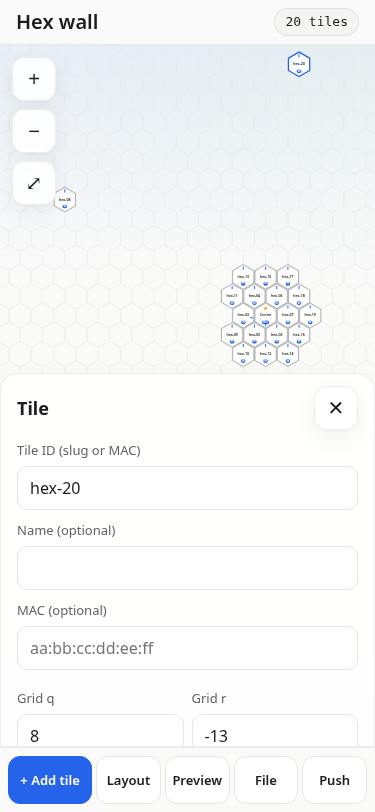
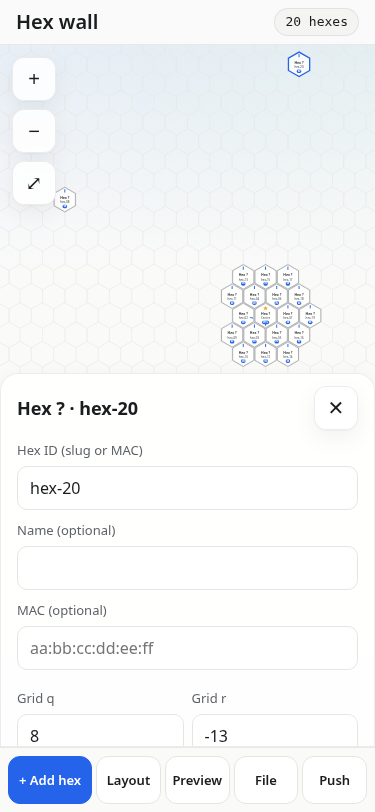
web: Hex NN naming (hex_NN entities/services from tiles.csv rows), 'Hex' UI wording
- Hexes labelled 'Hex NN' (tiles.csv row) with id secondary; panel title 'Hex NN · id'.
- Service prefix from master's tiles.csv row (hex_01); set_hex_layout(hex_num,...), set_layout_bulk, set_wall_fx
  (+ required axis arg per Hardware 9b55813); sensor.hex_NN_sync_source, binary_sensor.hex_NN_sync_leader.
- All user-visible 'tile' wording -> 'hex'; layout.json keys and code identifiers unchanged.
- test.js: 186 checks at 375 and 1280.

diff --git a/web/app.js b/web/app.js
@@ -66,11 +66,11 @@
       var a = Math.PI / 180 * (deg + (st.hex.orientation === 'flat' ? 30 : 0) - 90);
       h += '<g class="hx' + (i === sel ? ' sel' : '') + (bad[i] ? ' bad' : '') + '" data-i="' + i + '"><path d="' + corners(p[0], p[1], R - 2) + '"' + fill + '/>' +
         '<line class="rotmark" x1="' + (p[0] + Math.cos(a) * R * 0.55).toFixed(1) + '" y1="' + (p[1] + Math.sin(a) * R * 0.55).toFixed(1) + '" x2="' + (p[0] + Math.cos(a) * R * 0.8).toFixed(1) + '" y2="' + (p[1] + Math.sin(a) * R * 0.8).toFixed(1) + '"/>' +
-        dots + (D ? '' : '<text x="' + p[0] + '" y="' + p[1] + '">' + esc(lab.length > 9 ? lab.slice(0, 8) + '…' : lab) + '</text>') +
+        dots + (D ? '' : '<text x="' + p[0] + '" y="' + (p[1] - 5) + '">' + esc(hexLabel(t)) + '</text><text class="sub" x="' + p[0] + '" y="' + (p[1] + 9) + '">' + esc(lab.length > 10 ? lab.slice(0, 9) + '…' : lab) + '</text>') +
         syncBadge(i, p) + (i === mi ? '<text class="star" x="' + p[0] + '" y="' + (p[1] - R * 0.5) + '">★</text>' : '') + '</g>';
     }
     gT.innerHTML = h;
-    $('count').textContent = st.tiles.length + (st.tiles.length === 1 ? ' tile' : ' tiles');
+    $('count').textContent = st.tiles.length + (st.tiles.length === 1 ? ' hex' : ' hexes');
     $('errs').hidden = !errs.length; $('errs').textContent = errs.length + ' issue' + (errs.length > 1 ? 's' : '');
   }
   /* expected sync source per DESIGN.md (live value only from sensor.hex_<id>_sync_source: espnow / jumper / jumper-lost).
@@ -85,18 +85,18 @@
   /* jumper wiring per DESIGN.md "Sync mode": one shared line + GND, 330 R series at each tile, one 4.7 k pull-up to 3.3 V */
   function wiring(pinName, n) {
     var cols = [70, 165, 260], h = '<svg viewBox="0 0 340 250" role="img" aria-label="Jumper wire sync wiring">';
-    h += '<text x="18" y="16">3.3V (any one tile)</text><line class="ln" x1="40" y1="22" x2="40" y2="36"/>';
+    h += '<text x="18" y="16">3.3V (any one hex)</text><line class="ln" x1="40" y1="22" x2="40" y2="36"/>';
     h += '<rect class="pu" x="30" y="36" width="20" height="34" rx="3"/><text x="56" y="52">4.7 kΩ pull-up</text><text class="mu" x="56" y="65">one only (optional*)</text>';
     h += '<line class="ln" x1="40" y1="70" x2="40" y2="90"/><line class="ln" x1="14" y1="90" x2="330" y2="90"/><text x="6" y="106">SYNC</text>';
     for (var k = 0; k < 3; k++) { var x = cols[k];
       h += '<circle cx="' + x + '" cy="90" r="3" fill="currentColor"/><line class="ln" x1="' + x + '" y1="90" x2="' + x + '" y2="104"/>';
       h += '<rect class="res" x="' + (x - 10) + '" y="104" width="20" height="30" rx="3"/><text x="' + (x + 14) + '" y="123">330 Ω</text>';
       h += '<line class="ln" x1="' + x + '" y1="134" x2="' + x + '" y2="150"/><rect class="tile" x="' + (x - 34) + '" y="150" width="68" height="44" rx="8"/>';
-      h += '<text x="' + (x - 26) + '" y="168">' + esc(pinName) + '</text><text class="mu" x="' + (x - 26) + '" y="184">tile ' + (k + 1) + '</text>';
+      h += '<text x="' + (x - 26) + '" y="168">' + esc(pinName) + '</text><text class="mu" x="' + (x - 26) + '" y="184">Hex ' + pad2(k + 1) + '</text>';
       h += '<line class="gnd" x1="' + x + '" y1="194" x2="' + x + '" y2="214"/><text class="mu" x="' + (x + 4) + '" y="208">GND</text>'; }
     h += '<text x="300" y="175">… ×' + Math.max(n, 1) + '</text><line class="gnd" x1="14" y1="214" x2="330" y2="214"/><text x="14" y="232">GND bus (LED power GND is fine)</text></svg>';
-    h += '<ul><li>Each tile: ' + esc(pinName) + ' → 330 Ω series resistor → shared SYNC line. Plus a shared GND.</li><li>One 4.7 kΩ pull-up to 3.3 V on one tile. *DESIGN.md: optional, internal ~45 kΩ pull-ups also work for short lines [EST].</li>' +
-      '<li>Twisted pair (sync + GND) or ribbon, kept short and away from the 5 V branch runs. Open-drain: tiles only pull low.</li><li>Then set <span class="mono">select.' + nodeName() + '_sync_mode</span> to "Jumper wire". sync_pin is a compile-time substitution (regenerate and flash to change it).</li></ul>';
+    h += '<ul><li>Each hex: ' + esc(pinName) + ' → 330 Ω series resistor → shared SYNC line. Plus a shared GND.</li><li>One 4.7 kΩ pull-up to 3.3 V on one hex. *DESIGN.md: optional, internal ~45 kΩ pull-ups also work for short lines [EST].</li>' +
+      '<li>Twisted pair (sync + GND) or ribbon, kept short and away from the 5 V branch runs. Open-drain: hexes only pull low.</li><li>Then set <span class="mono">select.' + nodeName() + '_sync_mode</span> to "Jumper wire". sync_pin is a compile-time substitution (regenerate and flash to change it).</li></ul>';
     return h;
   }
   function refresh() { render(); save(); syncPanels(); }
@@ -106,7 +106,7 @@
   function show(p) {
     var wasOpen = !$('sheet').hidden; cur = p; $('sheet').hidden = !p;
     for (var k in panes) $(panes[k]).className = 'pane' + (k === p ? ' show' : '');
-    $('shTitle').textContent = { tile: 'Tile', layout: 'Layout & LEDs', fx: 'Effect preview', file: 'Import / export', hw: 'Hardware push' }[p] || '';
+    $('shTitle').textContent = { tile: 'Hex panel', layout: 'Layout & LEDs', fx: 'Effect preview', file: 'Import / export', hw: 'Hardware push' }[p] || '';
     $('tabLayout').className = 'btn' + (p === 'layout' ? ' on' : ''); $('tabFx').className = 'btn' + (p === 'fx' ? ' on' : ''); $('tabFile').className = 'btn' + (p === 'file' ? ' on' : ''); $('tabHw').className = 'btn' + (p === 'hw' ? ' on' : '');
     syncPanels(); if (wasOpen !== !!p) { clearTimeout(fitTimer); fitTimer = setTimeout(function () { fitTimer = 0; fit(); }, 0); } // refit only when the panel opens/closes
   }
@@ -119,7 +119,8 @@
       setv($('tId'), t.id); setv($('tName'), t.name); setv($('tMac'), t.mac); setv($('tQ'), t.q); setv($('tR'), t.r); setv($('tDeg'), LF.rotDeg(t)); setv($('tOrd'), t.order == null || t.order === '' ? '' : t.order); $('tOrd').placeholder = 'default (' + sel + ')'; $('tOrdDef').disabled = t.order == null || t.order === ''; setv($('tLed'), t.ledCount); $('tLed').placeholder = 'default (' + st.led.count + ')'; $('tLedDef').disabled = t.ledCount === '';
       for (var i = 0; i < errs.length; i++) if (errs[i].tile === sel) e.push(errs[i].msg);
       $('tIdErr').textContent = e.join(' · ');
-      var ss = syncSrc(sel); $('tSync').innerHTML = '<span class="badge" style="background:' + ss.color + '">' + ss.src + '</span>expected · ' + esc(ss.why) + '. Live value: <span class="mono">sensor.hex_' + esc(nid(t.id)) + '_sync_source</span>';
+      var ss = syncSrc(sel); $('tSync').innerHTML = '<span class="badge" style="background:' + ss.color + '">' + ss.src + '</span>expected · ' + esc(ss.why) + '. Live: <span class="mono">' + (hexNum(t) ? 'sensor.' + ent(t) + '_sync_source, binary_sensor.' + ent(t) + '_sync_leader' : '(not in tiles.csv, no entities)') + '</span>';
+      $('shTitle').textContent = hexLabel(t) + (t.id ? ' · ' + t.id : '');
       $('tPos').textContent = 'q ' + t.q + ', r ' + t.r + (t.id && t.id === st.master ? ' · master' : '');
       $('tMaster').textContent = t.id && t.id === st.master ? 'Is master ★' : 'Make master';
     } else if (cur === 'tile') show(null);
@@ -130,8 +131,8 @@
       setv($('lSyncPin'), sy.pin); $('wireBox').hidden = !jm; if (jm) $('wireBox').innerHTML = wiring(LF.normPin(sy.pin || 'GPIO12'), st.tiles.length);
       setv($('lName'), st.name); $('lOri').value = st.hex.orientation; setv($('lSize'), st.hex.sizeMm); setv($('lPin'), st.led.pin); setv($('lCount'), st.led.count);
       opts($('lType'), LF.TYPES, st.led.type); opts($('lOrder'), LF.ORDERS, st.led.order);
-      var m = [{ v: '', t: '— none —' }]; for (var j = 0; j < st.tiles.length; j++) if (st.tiles[j].id) m.push(st.tiles[j].id); opts($('lMaster'), m, st.master || '');
-      var h = ''; for (var k = 0; k < errs.length; k++) h += '<li>' + (errs[k].tile != null ? 'Tile at ' + st.tiles[errs[k].tile].q + ',' + st.tiles[errs[k].tile].r + ': ' : '') + esc(errs[k].msg) + '</li>';
+      var m = [{ v: '', t: '— none —' }]; for (var j = 0; j < st.tiles.length; j++) if (st.tiles[j].id) m.push({ v: st.tiles[j].id, t: hexLabel(st.tiles[j]) + ' · ' + st.tiles[j].id }); opts($('lMaster'), m, st.master || '');
+      var h = ''; for (var k = 0; k < errs.length; k++) h += '<li>' + (errs[k].tile != null ? hexLabel(st.tiles[errs[k].tile]) + ' (' + st.tiles[errs[k].tile].q + ',' + st.tiles[errs[k].tile].r + '): ' : '') + esc(errs[k].msg) + '</li>';
       $('errList').innerHTML = h;
     }
   }
@@ -149,7 +150,7 @@
   bind('tOrdDef', 'click', function () { $('tOrd').value = ''; tset('order', null); });
   bind('tLed', 'input', function () { tset('ledCount', this.value === '' ? '' : Math.max(1, parseInt(this.value, 10) || 1)); });
   bind('tLedDef', 'click', function () { $('tLed').value = ''; tset('ledCount', ''); });
-  bind('tMaster', 'click', function () { var t = st.tiles[sel]; if (!t) return; if (!t.id) { $('tIdErr').textContent = 'Give the tile an ID first'; return; } st.master = t.id; refresh(); });
+  bind('tMaster', 'click', function () { var t = st.tiles[sel]; if (!t) return; if (!t.id) { $('tIdErr').textContent = 'Give the hex an ID first'; return; } st.master = t.id; refresh(); });
   bind('tDel', 'click', function () { if (sel < 0) return; if (st.tiles[sel].id === st.master) st.master = null; st.tiles.splice(sel, 1); sel = -1; show(null); refresh(); });
   bind('lName', 'input', function () { st.name = this.value; refresh(); });
   bind('lOri', 'change', function () { st.hex.orientation = this.value; drawGrid(); refresh(); fit(); });
@@ -177,7 +178,7 @@
       if (!best && at(c[0] + q, c[1] + r) < 0) best = [c[0] + q, c[1] + r];
     }
     if (!best) return;
-    var n = st.tiles.length + 1, id = 'tile-' + n; while (st.tiles.some(function (t) { return t.id === id; })) id = 'tile-' + (++n);
+    var n = st.tiles.length + 1, id = 'h' + n; while (st.tiles.some(function (t) { return t.id === id; })) id = 'h' + (++n);
     st.tiles.push({ id: id, name: '', mac: '', q: best[0], r: best[1], rot: 0, ledCount: '' });
     if (!st.master) st.master = id;
     sel = st.tiles.length - 1; refresh();
@@ -187,7 +188,7 @@
   /* ---- file ---- */
   function download(name, text) { var a = document.createElement('a'); a.href = URL.createObjectURL(new Blob([text], { type: 'application/json' })); a.download = name; document.body.appendChild(a); a.click(); setTimeout(function () { URL.revokeObjectURL(a.href); a.remove(); }, 500); }
   function importText(text) {
-    try { var res = LF.parse(text); st = res.layout; sel = -1; save(); drawGrid(); render(); fit(); $('json').value = LF.serialize(st); $('fileMsg').textContent = 'Imported ' + st.tiles.length + ' tiles' + (res.errors.length ? ' with ' + res.errors.length + ' issue(s)' : '') + '.'; }
+    try { var res = LF.parse(text); st = res.layout; sel = -1; save(); drawGrid(); render(); fit(); $('json').value = LF.serialize(st); $('fileMsg').textContent = 'Imported ' + st.tiles.length + ' hexes' + (res.errors.length ? ' with ' + res.errors.length + ' issue(s)' : '') + '.'; }
     catch (e) { $('fileMsg').textContent = 'Import failed: ' + e.message; }
   }
   bind('exp', 'click', function () { var t = LF.serialize(st); $('json').value = t; download('layout.json', t); $('fileMsg').textContent = errs.length ? 'Exported, but fix ' + errs.length + ' issue(s) before Back End uses it.' : 'Exported layout.json'; });
@@ -195,7 +196,7 @@
   bind('imp', 'change', function () { var f = this.files[0]; if (!f) return; var rd = new FileReader(); rd.onload = function () { importText(rd.result); }; rd.readAsText(f); this.value = ''; });
   bind('loadTxt', 'click', function () { importText($('json').value); });
   bind('copy', 'click', function () { var t = $('json'); t.value = LF.serialize(st); t.select(); try { navigator.clipboard.writeText(t.value); } catch (e) { document.execCommand('copy'); } $('fileMsg').textContent = 'Copied.'; });
-  bind('clear', 'click', function () { if (confirm('Clear all tiles?')) { st = LF.defaults(); sel = -1; refresh(); } });
+  bind('clear', 'click', function () { if (confirm('Clear all hexes?')) { st = LF.defaults(); sel = -1; refresh(); } });
 
   /* ---- pan / zoom / drag (pointer events; touch handled via pointerType touch + touch-action:none) ---- */
   var ptrs = {}, drag = null, pinch = null;
@@ -309,7 +310,7 @@
     for (k in p) if (p.hasOwnProperty(k)) {
       var d = p[k] || {}, v = d['default'], ty = d.type || (typeof v === 'number' ? 'number' : 'string');
       if (k === 'origin' || ty === 'tile' || ty === 'tileId') { v = st.master || (st.tiles[0] && st.tiles[0].id) || ''; var tl = []; for (var i = 0; i < st.tiles.length; i++) if (st.tiles[i].id) tl.push(st.tiles[i].id);
-        h += '<label>' + k + '<select id="fxp-origin" data-k="' + k + '">' + tl.map(function (x) { return '<option' + (x === v ? ' selected' : '') + '>' + esc(x) + '</option>'; }).join('') + '</select></label>'; }
+        h += '<label>' + k + '<select id="fxp-origin" data-k="' + k + '">' + tl.map(function (x) { var tt = null; for (var z = 0; z < st.tiles.length; z++) if (st.tiles[z].id === x) tt = st.tiles[z]; return '<option value="' + esc(x) + '"' + (x === v ? ' selected' : '') + '>' + esc((tt ? hexLabel(tt) + ' · ' : '') + x) + '</option>'; }).join('') + '</select></label>'; }
       else if (ty === 'color') { var arr = Object.prototype.toString.call(v) === '[object Array]'; h += '<label>' + k + '<input type="color" data-k="' + k + '"' + (arr ? ' data-rgb="1"' : '') + ' value="' + esc(toHex(v)) + '"></label>'; }
       else if (k === 'palette' && (d.options || d['enum'])) { var po = d.options || d['enum'];
         h += '<label>palette</label><div class="sw" role="radiogroup" aria-label="palette">' + po.map(function (x) { return '<button type="button" role="radio" class="swb' + (x === v ? ' on' : '') + '" aria-checked="' + (x === v) + '" data-pal="' + esc(x) + '" style="background:' + palCss(x) + '">' + esc(x) + '</button>'; }).join('') + '</div>'; }
@@ -353,18 +354,27 @@
     var hd = lines[0].split(',').map(function (x) { return x.trim().toLowerCase(); }), ii = hd.indexOf('id'), mi = hd.indexOf('mac'); if (ii < 0) throw new Error('tiles.csv needs an id column');
     return { rows: lines.slice(1).map(function (l) { var c = l.split(','); return { id: (c[ii] || '').trim(), mac: mi >= 0 ? (c[mi] || '').trim() : '' }; }), src: src };
   }
-  function nodeName() { var m = st.master || 'c0'; return 'hex_' + (/^([0-9a-f]{2}[:-]){5}[0-9a-f]{2}$/i.test(m) ? normMac(m) : m.replace(/-/g, '_')); }
-  /* tile_id = 1-based row in esphome/tiles.csv, matched by tile id, then by mac (tile mac or a MAC-style id) */
+  /* Hex NN = 1-based row in esphome/tiles.csv (matched by id, then MAC); HA prefix hex_NN, device hex-NN (Hardware 9b55813) */
+  function csvRow(t) { if (!csv || !t) return -1; var k;
+    for (k = 0; k < csv.rows.length; k++) if (t.id && csv.rows[k].id === t.id) return k + 1;
+    for (k = 0; k < csv.rows.length; k++) { var cm = normMac(csv.rows[k].mac || csv.rows[k].id), tm = normMac(t.mac) || normMac(t.id); if (cm.length === 12 && cm === tm) return k + 1; }
+    return -1; }
+  function pad2(n) { return n < 10 ? '0' + n : String(n); }
+  function hexNum(t) { var n = csvRow(t); return n > 0 ? n : 0; }
+  function hexLabel(t) { var n = hexNum(t); return n ? 'Hex ' + pad2(n) : 'Hex ?'; }
+  function ent(t) { return 'hex_' + pad2(hexNum(t)); }
+  function masterTile() { for (var i = 0; i < st.tiles.length; i++) if (st.tiles[i].id && st.tiles[i].id === st.master) return st.tiles[i]; return null; }
+  function nodeName() { var m = masterTile(); return m && hexNum(m) ? ent(m) : 'hex_??'; }
+  /* hex_num = 1-based row in esphome/tiles.csv (see csvRow) */
   function hwBuild() {
     var out = { entries: [], problems: [], perTile: [] }, i, t, v = LF.validate(st);
-    for (i = 0; i < v.length; i++) if (/^(pos|rotDeg|order)$/.test(v[i].field)) out.problems.push((v[i].tile != null ? (st.tiles[v[i].tile].id || 'tile ' + v[i].tile) + ': ' : '') + v[i].msg);
+    for (i = 0; i < v.length; i++) if (/^(pos|rotDeg|order)$/.test(v[i].field)) out.problems.push((v[i].tile != null ? hexLabel(st.tiles[v[i].tile]) + ' (' + (st.tiles[v[i].tile].id || '?') + '): ' : '') + v[i].msg);
     if (!csv) { out.problems.push('tiles.csv not loaded'); return out; }
+    if (nodeName() === 'hex_??') out.problems.push('Master hex is not in tiles.csv, so its hex_NN service prefix is unknown');
     for (i = 0; i < st.tiles.length; i++) {
-      t = st.tiles[i]; var num = -1, k;
-      for (k = 0; k < csv.rows.length && num < 0; k++) if (t.id && csv.rows[k].id === t.id) num = k + 1;
-      for (k = 0; k < csv.rows.length && num < 0; k++) { var cm = normMac(csv.rows[k].mac || csv.rows[k].id), tm = normMac(t.mac) || normMac(t.id); if (cm.length === 12 && cm === tm) num = k + 1; }
-      if (num < 0) { out.problems.push((t.id || 'tile at ' + t.q + ',' + t.r) + ' is not in tiles.csv'); continue; }
-      if (num > 250) { out.problems.push(t.id + ': tile_id ' + num + ' > 250'); continue; }
+      t = st.tiles[i]; var num = csvRow(t);
+      if (num < 0) { out.problems.push((t.id || 'hex at ' + t.q + ',' + t.r) + ' is not in tiles.csv'); continue; }
+      if (num > 250) { out.problems.push(t.id + ': hex_num ' + num + ' > 250'); continue; }
       var e = { tile_id: num, q: t.q, r: t.r, rotation: LF.rotDeg(t), order: LF.order(t, i), id: t.id };
       out.entries.push(e);
     }
@@ -374,11 +384,11 @@
   function hwSync() {
     var b = hwBuild(), nn = nodeName();
     $('hwSrc').textContent = csv ? 'tiles.csv: ' + csv.src + ' (' + csv.rows.length + ' rows) · service node: ' + nn + ' (master)' : 'tiles.csv not loaded yet.';
-    $('hwErr').innerHTML = b.problems.map(function (p) { return '<li>' + esc(p) + '</li>'; }).join('') + (b.problems.length ? '<li><b>Fix these first: one bad entry makes the tile reject the whole string.</b></li>' : '');
+    $('hwErr').innerHTML = b.problems.map(function (p) { return '<li>' + esc(p) + '</li>'; }).join('') + (b.problems.length ? '<li><b>Fix these first: one bad entry makes the hexes reject the whole string.</b></li>' : '');
     $('hwBulk').value = b.problems.length ? '' : b.bulk; $('hwCopy').disabled = !!b.problems.length; $('hwCopyYaml').disabled = !!b.problems.length;
-    $('hwYaml').value = b.problems.length ? '' : '# Bulk (all tiles)\naction: esphome.' + nn + '_set_layout_bulk\ndata:\n  layout: "' + b.bulk + '"\n\n# Per tile (resend one that did not ack)\n' +
+    $('hwYaml').value = b.problems.length ? '' : '# Bulk (all hexes)\naction: esphome.' + nn + '_set_layout_bulk\ndata:\n  layout: "' + b.bulk + '"\n\n' +
       '# Sync mode (DESIGN.md: master-only select; sync_pin ' + LF.normPin(st.sync.pin || 'GPIO12') + ' is a compile-time substitution)\naction: select.select_option\ntarget:\n  entity_id: select.' + nn + '_sync_mode\ndata:\n  option: "' + (st.sync.mode === 'jumper' ? 'Jumper wire' : 'Wireless (ESP-NOW)') + '"\n\n' +
-      b.entries.map(function (e) { return '# ' + e.id + '\naction: esphome.' + nn + '_set_tile_layout\ndata: {tile_id: ' + e.tile_id + ', q: ' + e.q + ', r: ' + e.r + ', rotation: ' + e.rotation + ', order: ' + e.order + '}'; }).join('\n---\n');
+      '# Per hex (resend one that did not ack)\n' + b.entries.map(function (e) { return '# Hex ' + pad2(e.tile_id) + ' (' + e.id + ')\naction: esphome.' + nn + '_set_hex_layout\ndata: {hex_num: ' + e.tile_id + ', q: ' + e.q + ', r: ' + e.r + ', rotation: ' + e.rotation + ', order: ' + e.order + '}'; }).join('\n---\n');
     $('hwCsvBox').open = !csv; hwFxSync(); return b;
   }
   /* ---- Wall effect snippet (esphome.hex_<master>_set_wall_fx), built from the preview ---- */
@@ -397,10 +407,10 @@
     var sp = n === 'breathe' ? 1 / (p.periodS || 4) : (p.speed != null ? p.speed : 1), sc = 100, notes = [];
     if (n === 'chase') sc = (p.tail || 3) * 100; else if (n === 'rainbow_flow') sc = (p.scale || 1) * 100;
     if (n === 'ripple' && p.origin && p.origin !== st.master) notes.push('firmware radial_wave always starts at q,r = 0,0, not the chosen origin');
-    if (n === 'wipe' || n === 'rainbow_sweep') notes.push('axis is not a service field: set select.' + nodeName() + '_wall_wipe_axis to ' + (p.axis || 'x') + ' (shared by wipe and rainbow_sweep; x, y, ring, angle)');
+    if (n === 'wipe' || n === 'rainbow_sweep') notes.push('axis ' + (p.axis || 'x') + ' is sent as the axis arg; it also sets select.' + nodeName() + '_wall_wipe_axis (shared by wipe and rainbow_sweep)');
     var hsv = p.color ? rgbToHsv255(p.color) : [0, 255, 255], bri = clamp(($('bri').value | 0) / 100, 0, 1), pi = FW_PAL.indexOf(p.palette);
     var P = { effect: id, palette: pi < 0 ? (p.color ? 5 : 0) : pi, speed: clamp(Math.round(sp * 1000), 0, 10000), scale: clamp(Math.round(sc), 0, 65535),
-      hue: hsv[0], saturation: hsv[1], value: clamp(Math.round(hsv[2] * bri), 0, 255), start_delay_ms: clamp(parseInt($('hwDelay').value, 10) || 0, 0, 10000) };
+      hue: hsv[0], saturation: hsv[1], value: clamp(Math.round(hsv[2] * bri), 0, 255), start_delay_ms: clamp(parseInt($('hwDelay').value, 10) || 0, 0, 10000), axis: { x: 0, y: 1, ring: 2, angle: 3 }[p.axis] || 0 };
     if (sp * 1000 > 10000) notes.push('speed capped at 10000 mc/s');
     return { P: P, note: notes.join('; ') };
   }
@@ -408,8 +418,8 @@
     var r = fwParams(), nn = nodeName();
     $('hwCopyFx').disabled = !!r.error; $('hwFx').disabled = !!r.error;
     if (r.error) { $('hwFx').value = ''; $('hwFxMsg').textContent = r.error; return r; }
-    var P = r.P; $('hwFxMsg').textContent = 'Effect ' + fx.name + ' → firmware id ' + P.effect + '. Axis (wipe and rainbow_sweep) is select.' + nn + '_wall_wipe_axis, not a service field. value includes the preview brightness (' + $('bri').value + '%).' + (r.note ? ' Note: ' + r.note + '.' : '');
-    $('hwFx').value = 'action: esphome.' + nn + '_set_wall_fx\ndata:\n  effect: ' + P.effect + '\n  palette: ' + P.palette + '\n  speed: ' + P.speed + '\n  scale: ' + P.scale + '\n  hue: ' + P.hue + '\n  saturation: ' + P.saturation + '\n  value: ' + P.value + '\n  start_delay_ms: ' + P.start_delay_ms;
+    var P = r.P; $('hwFxMsg').textContent = 'Effect ' + fx.name + ' → firmware id ' + P.effect + '. axis (required arg: 0 x, 1 y, 2 ring, 3 angle) drives wipe and rainbow_sweep, same as select.' + nn + '_wall_wipe_axis. value includes the preview brightness (' + $('bri').value + '%).' + (r.note ? ' Note: ' + r.note + '.' : '');
+    $('hwFx').value = 'action: esphome.' + nn + '_set_wall_fx\ndata:\n  effect: ' + P.effect + '\n  palette: ' + P.palette + '\n  speed: ' + P.speed + '\n  scale: ' + P.scale + '\n  hue: ' + P.hue + '\n  saturation: ' + P.saturation + '\n  value: ' + P.value + '\n  start_delay_ms: ' + P.start_delay_ms + '\n  axis: ' + P.axis;
     return r;
   }
   bind('hwDelay', 'input', function () { if (+this.value > 10000) this.value = 10000; hwFxSync(); });
@@ -417,8 +427,8 @@
   function copyText(el, msg) { el.select(); try { navigator.clipboard.writeText(el.value); } catch (e) { document.execCommand('copy'); } $('hwMsg').textContent = msg; }
   bind('hwCopy', 'click', function () { copyText($('hwBulk'), 'Bulk string copied.'); });
   bind('hwCopyYaml', 'click', function () { copyText($('hwYaml'), 'YAML copied.'); });
-  bind('hwCsvLoad', 'click', function () { try { csv = parseCsv($('hwCsv').value, 'pasted'); $('hwMsg').textContent = ''; } catch (e) { $('hwMsg').textContent = 'tiles.csv: ' + e.message; } hwSync(); });
-  if (window.fetch && location.protocol !== 'file:') fetch('../esphome/tiles.csv', { cache: 'no-store' }).then(function (r) { if (!r.ok) throw 0; return r.text(); }).then(function (t) { csv = parseCsv(t, 'esphome/tiles.csv'); if (cur === 'hw') hwSync(); }, function () {});
+  bind('hwCsvLoad', 'click', function () { try { csv = parseCsv($('hwCsv').value, 'pasted'); $('hwMsg').textContent = ''; render(); } catch (e) { $('hwMsg').textContent = 'tiles.csv: ' + e.message; } hwSync(); });
+  if (window.fetch && location.protocol !== 'file:') fetch('../esphome/tiles.csv', { cache: 'no-store' }).then(function (r) { if (!r.ok) throw 0; return r.text(); }).then(function (t) { csv = parseCsv(t, 'esphome/tiles.csv'); render(); syncPanels(); }, function () {});
 
   window.HexApp = { state: function () { return st; }, derived: derived, fx: fx, FX: function () { return FX; }, hw: hwBuild, fwParams: fwParams, fwRef: function () { return FWREF; } }; // test hook
   lbl(); setVB(); fit(); render(); loadRemote(buildFx);

diff --git a/web/test.js b/web/test.js
@@ -9,7 +9,7 @@ const OUT = __dirname + '/screenshots/'; const URL = 'http://localhost:8411/web/
     await p.goto(URL); await p.evaluate(() => localStorage.clear()); await p.reload();
     for (let i = 0; i < 20; i++) await p.click('#add');
     ok(await p.evaluate(() => HexApp.state().led.count) === 44, w + ' new layout default led.count 44');
-    ok(await p.textContent('#count') === '20 tiles', w + ' 20 tiles counter');
+    ok(await p.textContent('#count') === '20 hexes', w + ' 20 hexes counter');
     // assign IDs via panel on a few tiles by tapping, rest via UI fields too
     const n = await p.locator('.hx').count();
     await p.click('#zfit');
@@ -71,7 +71,7 @@ const OUT = __dirname + '/screenshots/'; const URL = 'http://localhost:8411/web/
     ok(JSON.stringify(Object.keys(o)) === '["version","name","hex","led","master","tiles","sync"]' && !('x' in o.tiles[0]) && !('ring' in o.tiles[0]), w + ' export has no derived fields');
     // reimport after clearing
     await p.evaluate(() => { localStorage.clear(); }); await p.reload();
-    ok(await p.textContent('#count') === '0 tiles', w + ' cleared');
+    ok(await p.textContent('#count') === '0 hexes', w + ' cleared');
     await p.click('#tabFile'); await p.setInputFiles('#imp', file); await p.waitForTimeout(300);
     const re = await p.evaluate(() => LayoutFormat.serialize(HexApp.state()));
     ok(re === exp, w + ' round-trip identical');
@@ -129,8 +129,14 @@ const OUT = __dirname + '/screenshots/'; const URL = 'http://localhost:8411/web/
     const src = JSON.parse(fs.readFileSync('/workspace/hex-lights/layout.json', 'utf8')), back = JSON.parse(await p.evaluate(() => LayoutFormat.serialize(HexApp.state())));
     ok(JSON.stringify(back) === JSON.stringify(src), 'Back End layout.json round-trips unchanged');
     await p.evaluate(() => { const s = HexApp.state(); s.sync = { mode: 'jumper', pin: 'GPIO12' }; });
-    await p.locator('.hx').first().click(); ok((await p.textContent('#tSync')).includes('jumper') && (await p.textContent('#tSync')).includes('expected') && (await p.textContent('#tSync')).includes('sensor.hex_c0_sync_source'), 'tile panel: expected jumper + live sensor name');
+    await p.locator('.hx').first().click(); ok((await p.textContent('#tSync')).includes('jumper') && (await p.textContent('#tSync')).includes('expected') && (await p.textContent('#tSync')).includes('sensor.hex_01_sync_source'), 'tile panel: expected jumper + live sensor name');
     await p.click('#tabHw'); { const y = await p.inputValue('#hwYaml'); ok(y.includes('option: "Jumper wire"'), 'push YAML sync mode follows layout (Jumper wire)'); } await p.click('#tabHw');
+    { const ts = await p.textContent('#tSync'); ok(ts.includes('binary_sensor.hex_01_sync_leader') && !ts.includes('this_tile'), 'sync_leader entity (no _this_tile)'); }
+    await p.locator('.hx').first().click(); ok((await p.textContent('#shTitle')) === 'Hex 01 · c0', 'panel title Hex 01 · c0 got ' + await p.textContent('#shTitle'));
+    ok(await p.$$eval('.hx text:not(.sub):not(.star)', t => t.map(x => x.textContent).filter(x => /^Hex \d\d$/.test(x)).length === 20) && await p.$$eval('.hx text.sub', t => t.some(x => x.textContent === 'Center')), 'grid shows Hex 01..20 with name/id secondary');
+    { const hl = await p.$$eval('.hx text:not(.sub):not(.star)', t => t.map(x => x.textContent).sort()); ok(hl[0] === 'Hex 01' && hl[19] === 'Hex 20', 'Hex 01..Hex 20'); }
+    { const body = await p.evaluate(() => { const s = document.getElementById('sheet'); const all = [...document.querySelectorAll('button,label,h1,h2,h3,p,li,summary,.pill,option,svg text')].map(e => e.textContent).join(' | '); return all; });
+      const bad = body.match(/[^|]{0,30}\btiles?\b(?!\.csv)[^|]{0,30}/gi) || []; ok(bad.length === 0, 'no user-visible "tile" ' + bad.slice(0, 5).join(' ;; ')); }
     const rj = await p.evaluate(() => LayoutFormat.parse(LayoutFormat.serialize(HexApp.state())).layout.sync); ok(rj.mode === 'jumper' && rj.pin === 'GPIO12', 'sync round-trips via parse');
     await p.evaluate(() => { HexApp.state().sync = { mode: 'wireless', pin: 'GPIO12' }; }); await p.click('#tabFile');
     const imp = JSON.parse(JSON.stringify(src)); imp.led.count = 60; imp.tiles[1].ledCount = 12;
@@ -141,22 +147,22 @@ const OUT = __dirname + '/screenshots/'; const URL = 'http://localhost:8411/web/
     await p.click('#tabFx'); await p.click('#fxPlay'); await p.waitForTimeout(200); seen = await p.evaluate(() => window.__seen); await p.click('#fxStop');
     ok(seen && seen[1] === 12 && seen[0] === 60, 'frame() receives effective leds');
     // led.count limit
-    await p.click('#tabLayout'); await p.fill('#lCount', '61'); ok((await p.textContent('#errList')).includes('LEDs per tile must be 1-60'), 'led.count > 60 flagged'); await p.fill('#lCount', '44');
+    await p.click('#tabLayout'); await p.fill('#lCount', '61'); ok((await p.textContent('#errList')).includes('LEDs per hex must be 1-60'), 'led.count > 60 flagged'); await p.fill('#lCount', '44');
     // wall effect snippet + firmware reference
     await p.click('#tabFx'); await p.selectOption('#fxSel', 'solid'); await p.fill('#fxParams input[type=color]', '#ff0000'); await p.fill('#bri', '100');
     await p.click('#tabHw'); await p.fill('#hwDelay', '25000');
     const fy = await p.inputValue('#hwFx');
-    ok(fy.includes('action: esphome.hex_c0_set_wall_fx') && fy.includes('effect: 0') && fy.includes('hue: 0') && fy.includes('saturation: 255') && fy.includes('value: 255') && fy.includes('start_delay_ms: 10000') && !(await p.isDisabled('#hwCopyFx')), 'wall fx YAML solid red, delay capped');
+    ok(fy.includes('action: esphome.hex_01_set_wall_fx') && fy.includes('effect: 0') && fy.includes('hue: 0') && fy.includes('saturation: 255') && fy.includes('value: 255') && fy.includes('start_delay_ms: 10000') && fy.includes('axis: 0') && !(await p.isDisabled('#hwCopyFx')), 'wall fx YAML solid red, delay capped');
     await p.click('#tabFx'); await p.$eval('#bri', e => { e.value = 50; e.dispatchEvent(new Event('input')); }); await p.fill('#fxParams input[type=color]', '#804020');
     ok(await p.evaluate(() => HexApp.fwParams().P.value) === 64, 'value = round(colourV 128 * 50%) = 64');
     await p.selectOption('#fxSel', 'rainbow_sweep'); ok(await p.evaluate(() => HexApp.fwParams().P.value) === 128, 'colourless value = round(255 * 50%) = 128');
     await p.$eval('#fxParams select[data-k=axis]', e => { e.value = 'ring'; e.dispatchEvent(new Event('change', { bubbles: true })); }); await p.click('#tabHw');
-    const sm = await p.textContent('#hwFxMsg'); ok(sm.includes('select.hex_c0_wall_wipe_axis to ring') && !/x\/y only/i.test(sm) && (await p.inputValue('#hwFx')).includes('value: 128'), 'sweep axis note (ring), no x/y-only warning, YAML value 128 ' + sm);
+    const sm = await p.textContent('#hwFxMsg'); ok(sm.includes('axis ring is sent as the axis arg') && sm.includes('select.hex_01_wall_wipe_axis') && !/x\/y only/i.test(sm) && (await p.inputValue('#hwFx')).includes('value: 128') && (await p.inputValue('#hwFx')).includes('\n  axis: 2'), 'sweep axis note (ring), no x/y-only warning, YAML value 128 ' + sm);
     await p.click('#tabFx'); await p.$eval('#bri', e => { e.value = 100; e.dispatchEvent(new Event('input')); });
     await p.selectOption('#fxSel', 'chase'); await p.click('#tabHw');
     let P = await p.evaluate(() => HexApp.fwParams().P); ok(P.effect === 4 && P.speed === 3000 && P.scale === 300 && P.palette === 0, 'chase -> id 4, speed 3000, scale 300 ' + JSON.stringify(P));
     await p.click('#tabFx'); await p.selectOption('#fxSel', 'breathe'); P = await p.evaluate(() => HexApp.fwParams().P); ok(P.effect === 3 && P.speed === 250, 'breathe -> pulse 3, speed 250');
-    await p.selectOption('#fxSel', 'wipe'); await p.click('#tabHw'); ok((await p.textContent('#hwFxMsg')).includes('select.hex_c0_wall_wipe_axis'), 'wipe axis note'); await p.click('#tabFx');
+    await p.selectOption('#fxSel', 'wipe'); await p.click('#tabHw'); ok((await p.textContent('#hwFxMsg')).includes('select.hex_01_wall_wipe_axis'), 'wipe axis note'); await p.click('#tabFx');
     await p.selectOption('#fxSel', 'snake'); P = await p.evaluate(() => HexApp.fwParams().P); ok(P.effect === 10 && P.speed === 1000, 'snake -> id 10 (hexsyncId)');
     await p.selectOption('#fxSel', 'sparkle'); ok(!!(await p.evaluate(() => HexApp.fwParams().error)), 'sparkle has no firmware id -> disabled');
     await p.selectOption('#fxSel', 'spiral'); await p.click('#tabHw');
@@ -176,9 +182,9 @@ const OUT = __dirname + '/screenshots/'; const URL = 'http://localhost:8411/web/
     await p.click('#tabHw'); await p.waitForTimeout(300);
     const exp = fs.readFileSync('/workspace/hex-lights/esphome/layout_bulk.txt', 'utf8').trim();
     await p.evaluate(t => { document.getElementById('json').value = t; }, fs.readFileSync('/workspace/hex-lights/layout.json', 'utf8')); await p.click('#tabFile'); await p.click('#loadTxt'); await p.click('#tabHw');
-    { const y0 = await p.inputValue('#hwYaml'); ok(y0.includes('entity_id: select.hex_c0_sync_mode') && y0.includes('option: "Wireless (ESP-NOW)"'), 'push YAML has sync mode (wireless)'); }
+    { const y0 = await p.inputValue('#hwYaml'); ok(y0.includes('entity_id: select.hex_01_sync_mode') && y0.includes('option: "Wireless (ESP-NOW)"'), 'push YAML has sync mode (wireless)'); }
     const bulk = await p.inputValue('#hwBulk'); ok(bulk === exp, 'bulk string == esphome/layout_bulk.txt (' + bulk.length + ' chars)');
-    const yaml = await p.inputValue('#hwYaml'); ok(yaml.includes('action: esphome.hex_c0_set_layout_bulk') && yaml.includes('action: esphome.hex_c0_set_tile_layout\ndata: {tile_id: 20, q: 3, r: -1, rotation: 0, order: 19}') && !(await p.isDisabled('#hwCopy')), 'YAML snippets + copy enabled');
+    const yaml = await p.inputValue('#hwYaml'); ok(yaml.includes('action: esphome.hex_01_set_layout_bulk') && yaml.includes('# Hex 20 (r3-a)\naction: esphome.hex_01_set_hex_layout\ndata: {hex_num: 20, q: 3, r: -1, rotation: 0, order: 19}') && !(await p.isDisabled('#hwCopy')), 'YAML snippets + copy enabled');
     await p.click('#hwCopy'); ok((await p.textContent('#hwMsg')).includes('copied'), 'copy bulk');
     await p.evaluate(() => { const s = HexApp.state(); s.tiles.push({ id: 'ghost', name: '', mac: '', q: 9, r: 9, rot: 0, ledCount: '', order: null, rotDeg: null }); }); await p.click('#tabHw'); await p.click('#tabHw');
     ok((await p.textContent('#hwErr')).includes('ghost is not in tiles.csv') && await p.isDisabled('#hwCopy') && (await p.inputValue('#hwBulk')) === '', 'unknown tile flagged, push blocked');

diff --git a/web/index.html b/web/index.html
@@ -2,20 +2,20 @@
 <meta name="viewport" content="width=device-width,initial-scale=1,viewport-fit=cover">
 <title>Hex lights layout</title><link rel="stylesheet" href="app.css"></head>
 <body>
-<header class="top"><h1>Hex wall</h1><span id="count" class="pill num">0 tiles</span><span id="errs" class="pill bad" hidden></span></header>
+<header class="top"><h1>Hex wall</h1><span id="count" class="pill num">0 hexes</span><span id="errs" class="pill bad" hidden></span></header>
 <main id="stage"><svg id="svg" xmlns="http://www.w3.org/2000/svg" role="application" aria-label="Hex grid"><g id="grid"></g><g id="tiles"></g></svg>
 <div class="zoom"><button class="iconbtn" id="zin" aria-label="Zoom in">+</button><button class="iconbtn" id="zout" aria-label="Zoom out">−</button><button class="iconbtn" id="zfit" aria-label="Fit">⤢</button></div></main>
 <nav class="tabs">
-<button class="btn pr" id="add">+ Add tile</button>
+<button class="btn pr" id="add">+ Add hex</button>
 <button class="btn" id="tabLayout">Layout</button>
 <button class="btn" id="tabFx">Preview</button>
 <button class="btn" id="tabFile">File</button>
 <button class="btn" id="tabHw">Push</button>
 </nav>
 <section id="sheet" class="sheet" hidden>
-<div class="sh-head"><h2 id="shTitle">Tile</h2><button class="iconbtn" id="shClose" aria-label="Close">✕</button></div>
+<div class="sh-head"><h2 id="shTitle">Hex</h2><button class="iconbtn" id="shClose" aria-label="Close">✕</button></div>
 <div id="pTile" class="pane">
- <label>Tile ID (slug or MAC)<input id="tId" autocomplete="off" autocapitalize="off" spellcheck="false"></label><p id="tIdErr" class="err"></p>
+ <label>Hex ID (slug or MAC)<input id="tId" autocomplete="off" autocapitalize="off" spellcheck="false"></label><p id="tIdErr" class="err"></p>
  <label>Name (optional)<input id="tName"></label>
  <label>MAC (optional)<input id="tMac" autocapitalize="off" placeholder="aa:bb:cc:dd:ee:ff"></label>
  <div class="row2"><label>Grid q<input id="tQ" type="number" min="-50" max="50" step="1" inputmode="numeric"></label>
@@ -35,9 +35,9 @@
  <label>Hex size (mm)<input id="lSize" type="number" min="1" inputmode="decimal"></label></div>
  <h3>LEDs</h3>
  <div class="row2"><label>Data pin<input id="lPin" placeholder="GPIO13" autocapitalize="characters"></label>
- <label>LEDs per tile<input id="lCount" type="number" min="1" max="60" inputmode="numeric"></label></div>
+ <label>LEDs per hex<input id="lCount" type="number" min="1" max="60" inputmode="numeric"></label></div>
  <div class="row2"><label>Type<select id="lType"></select></label><label>Colour order<select id="lOrder"></select></label></div>
- <label>Master tile<select id="lMaster"></select></label>
+ <label>Master hex<select id="lMaster"></select></label>
  <h3>Sync</h3>
  <div class="seg" role="radiogroup" aria-label="Sync mode"><button type="button" class="btn" id="syW" role="radio">Wireless (ESP-NOW)</button><button type="button" class="btn" id="syJ" role="radio">Jumper wire</button></div>
  <label>Sync pin (jumper mode)<input id="lSyncPin" placeholder="GPIO12" autocapitalize="characters"></label>
@@ -53,13 +53,13 @@
  <label>Brightness <span id="briV" class="num"></span><input id="bri" type="range" min="0" max="100" value="80"></label>
  <label>Preview speed <span id="spdV" class="num"></span><input id="spd" type="range" min="0" max="300" value="100"></label>
  <div class="row2"><button class="btn pr" id="fxPlay">Play</button><button class="btn" id="fxStop">Stop</button></div>
- <p class="mu small">Local simulation only. Tap a tile to set the ripple origin.</p>
+ <p class="mu small">Local simulation only. Tap a hex to set the ripple origin.</p>
 </div>
 <div id="pHw" class="pane">
  <p class="small mu">Hardware push string for the master's <span class="mono">set_layout_bulk</span> service. Nothing is sent from here; copy it into Home Assistant yourself.</p>
  <p id="hwSrc" class="small mu"></p>
  <ul id="hwErr" class="errlist"></ul>
- <label>Bulk layout (tile_id:q:r:rotation:order;…)<textarea id="hwBulk" rows="4" readonly class="mono"></textarea></label>
+ <label>Bulk layout (hex_num:q:r:rotation:order;…)<textarea id="hwBulk" rows="4" readonly class="mono"></textarea></label>
  <button class="btn pr" id="hwCopy">Copy bulk string</button>
  <label>Service calls (YAML)<textarea id="hwYaml" rows="10" readonly class="mono"></textarea></label>
  <button class="btn" id="hwCopyYaml">Copy YAML</button>

diff --git a/web/layout-format.js b/web/layout-format.js
@@ -82,12 +82,12 @@
       else ords[od] = i;
       if (t.mac && !MAC.test(t.mac)) e.push({ tile: i, field: 'mac', msg: 'MAC looks wrong' });
       var k = t.q + ',' + t.r;
-      if (pos[k] != null) e.push({ tile: i, field: 'pos', msg: 'Two tiles at ' + k });
+      if (pos[k] != null) e.push({ tile: i, field: 'pos', msg: 'Two hexes at ' + k });
       pos[k] = i;
     }
-    if (s.tiles.length && !s.master) e.push({ tile: null, field: 'master', msg: 'No master tile chosen' });
-    else if (s.master && ids[s.master] == null) e.push({ tile: null, field: 'master', msg: 'Master "' + s.master + '" is not a tile ID' });
-    if (!(s.led.count >= 1 && s.led.count <= MAXLED)) e.push({ tile: null, field: 'led', msg: 'LEDs per tile must be 1-' + MAXLED + ' (firmware limit)' });
+    if (s.tiles.length && !s.master) e.push({ tile: null, field: 'master', msg: 'No master hex chosen' });
+    else if (s.master && ids[s.master] == null) e.push({ tile: null, field: 'master', msg: 'Master "' + s.master + '" is not a hex ID' });
+    if (!(s.led.count >= 1 && s.led.count <= MAXLED)) e.push({ tile: null, field: 'led', msg: 'LEDs per hex must be 1-' + MAXLED + ' (firmware limit)' });
     var pe = pinErr(s.led.pin, 'LED data pin'); if (pe) e.push({ tile: null, field: 'led', msg: pe });
     var sy = s.sync || {}, se = pinErr(sy.pin || 'GPIO12', 'Sync pin'); if (se) e.push({ tile: null, field: 'sync', msg: se });
     else if (pin(sy.pin || 'GPIO12') === pin(s.led.pin)) e.push({ tile: null, field: 'sync', msg: 'Sync pin must not be the LED data pin (' + pin(s.led.pin) + ')' });

diff --git a/web/app.css b/web/app.css
@@ -50,3 +50,4 @@ details summary{min-height:44px;display:flex;align-items:center;cursor:pointer}
 .wire ul{margin:6px 0 0;padding-left:18px;font-size:13px;color:var(--mu)}
 .hx .sb{pointer-events:none}.hx .sb rect{stroke:none}.hx .sb text{font:700 9px system-ui;fill:#fff}
 .badge{display:inline-block;padding:2px 8px;border-radius:999px;font-size:12px;font-weight:600;color:#fff;margin-right:6px}
+.hx text.sub{font:500 9px system-ui;fill:var(--mu)}

diff --git a/web/README.md b/web/README.md
@@ -48,8 +48,8 @@ it should send `rotationDeg` if present, else `rot*60`. Harmless today because e
 Builds `tile_id:q:r:rotation:order;…` where `tile_id` = 1-based row in `../esphome/tiles.csv`, matched by tile id,
 then by MAC (a `mac` column if tiles.csv has one, or a MAC-style id). Unknown tiles, out-of-range values or
 duplicate orders block the string and the Copy buttons, because a single bad entry makes the tile reject it all.
-YAML snippets for `esphome.hex_<master>_set_layout_bulk` and per-tile `..._set_tile_layout` (node name from the
-master id, `hex_c0` for the default layout). If tiles.csv can't be fetched, paste it into the panel.
+YAML snippets for `esphome.hex_NN (master row)_set_layout_bulk` and per-tile `..._set_hex_layout` (node name from the
+master id, `hex_01` for the default layout). If tiles.csv can't be fetched, paste it into the panel.
 For Back End's default layout, the output equals `esphome/layout_bulk.txt`.
 
 ## Effects (wall effects, 5dd5427)
@@ -61,11 +61,11 @@ rainbow_flow and the palettes.
 
 ## Firmware limits and wall effect (Hardware hexsync v2)
 - LED count: `led.count` and tile `ledCount` must be 1–60 (`number.hex_<id>_led_count`). Higher values are flagged, not clamped.
-- Push tab → **Wall effect**: YAML for `esphome.hex_<master>_set_wall_fx(effect, palette, speed, scale, hue, saturation, value, start_delay_ms)`
+- Push tab → **Wall effect**: YAML for `esphome.hex_NN (master row)_set_wall_fx(effect, palette, speed, scale, hue, saturation, value, start_delay_ms)`
   built from the current preview. effect = effects.json `hexsyncId` (fallback table 0 solid … 10 snake). palette = index 0–5.
   speed = cycles/s ×1000 (breathe: 1000/periodS), capped 0–10000. scale ×100 (chase tail, rainbow_flow scale), else 100.
   hue/sat 0–255 from the colour; value = round(colourV × preview brightness), 0–255 (no colour → V 255). start_delay_ms capped at 10000. Effects without an id (spiral, sparkle)
-  disable the snippet and show a message. The axis for wipe and rainbow_sweep (x, y, ring, angle) is `select.hex_c0_wall_wipe_axis`, not a service field.
+  disable the snippet and show a message. The axis for wipe and rainbow_sweep (x, y, ring, angle) is `select.hex_01_wall_wipe_axis`, not a service field.
 - Preview source **Firmware reference** uses `../esphome/tools/effects-ref.js` `frame(P, tiles, tMs, ledCount)`. Tiles get numeric
   ids from tiles.csv rows. It's called once with the largest led count, then sliced per tile. firmwareOnly effects (random_ripple,
   twinkle, color_cycle, snake) always preview through it.
@@ -74,7 +74,7 @@ rainbow_flow and the palettes.
 - **Storage:** DESIGN.md/layout.json define no key, so the editor uses an optional top-level
   `"sync": {"mode": "wireless" | "jumper", "pin": "GPIO<n>"}`. It's written only when not the default (wireless, GPIO12), so Back End's
   layout.json round-trips unchanged. gen_tiles.py `validate()` accepts it and `derive()` copies it through (checked). It does not yet
-  feed the `sync_pin` substitution. On the device the mode is the master's `select.hex_c0_sync_mode`
+  feed the `sync_pin` substitution. On the device the mode is the master's `select.hex_01_sync_mode`
   (`Wireless (ESP-NOW)` / `Jumper wire`) and sync_pin is a compile-time substitution (default GPIO12).
 - **Sync pin** uses the same rule as the data pin (`GPIO<n>`, not 0/3/45/46 strapping, 19/20 USB, 48 RGB LED, same as gen_tiles
   `check_pin`), and is flagged if it equals the LED data pin.
@@ -83,4 +83,15 @@ rainbow_flow and the palettes.
 - **Sync source badge** (grid `W`/`J`, `·L` = expected leader; tile panel): *expected* value only. Wireless → `espnow`, Jumper →
   `jumper` (the leader also reports `jumper`). The live value, including `jumper-lost`, comes from `sensor.hex_<id>_sync_source` in HA, which the editor doesn't read.
   The expected leader is the master (gen_tiles gives it leader_priority 1); failover can move it.
-- **Push YAML** adds a `select.select_option` on `select.hex_c0_sync_mode`. Wall-fx YAML is unchanged (the mode isn't a set_wall_fx field).
+- **Push YAML** adds a `select.select_option` on `select.hex_01_sync_mode`. Wall-fx YAML is unchanged (the mode isn't a set_wall_fx field).
+
+## Hex NN naming (branch web-hex-nn, matches Hardware 9b55813)
+- A hex is shown as **Hex NN**, where NN is its 1-based row in `esphome/tiles.csv` (c0 = Hex 01 … r3-a = Hex 20). The layout id/name is
+  shown second. Hexes missing from tiles.csv show `Hex ?`.
+- HA ids use `hex_NN_*`: `sensor.hex_NN_sync_source`, `binary_sensor.hex_NN_sync_leader`, `select.hex_01_sync_mode`,
+  `select.hex_01_wall_wipe_axis`. The service prefix comes from the **master's tiles.csv row** (`hex_01`), not its id. Push is blocked if the master isn't in tiles.csv.
+- Services: `esphome.hex_01_set_layout_bulk`, `esphome.hex_01_set_hex_layout(hex_num, q, r, rotation, order)`,
+  `esphome.hex_01_set_wall_fx(effect, palette, speed, scale, hue, saturation, value, start_delay_ms, axis)`. `axis` (0 x, 1 y, 2 ring,
+  3 angle) is a required argument in 9b55813's template, so the snippet always includes it.
+- UI text says "hex" everywhere ("Add hex", "Hex panel", "LEDs per hex", "Master hex", …). The file format keeps `tiles`, `ledCount`
+  and the code identifiers. New hexes get ids `h1`, `h2`, … (previously `tile-N`).
